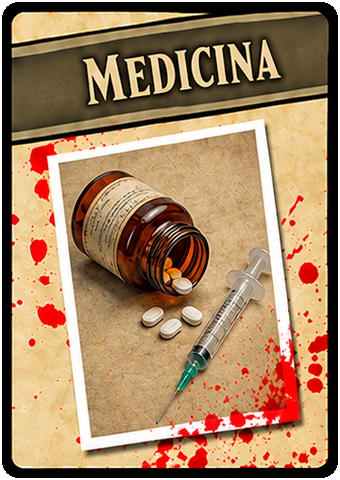
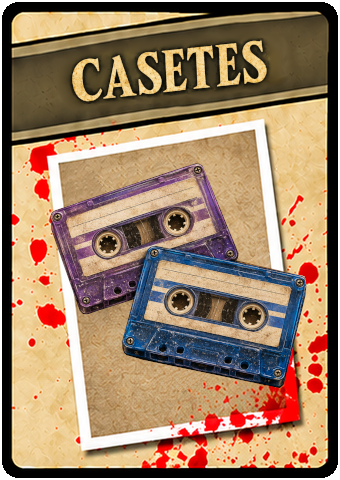
Update Admin cassette card image to card-obj-9.png

Changed region(s): [[0.1471, 0.3438, 0.9118, 0.875], [0.1765, 0.0625, 0.8529, 0.25]]

diff --git a/src/js/main.js b/src/js/main.js
@@ -352,9 +352,9 @@ class ScapeRoomApp {
       scannerSlide.innerHTML = `
         <div class="flip-card game-card-flip is-admin-card" id="scanner-flip-card">
           <div class="flip-card-inner">
-            <!-- Cara Frontal de la Tarjeta (Imagen de Cámara con Borde Azul) -->
+            <!-- Cara Frontal de la Tarjeta (Imagen de Casete) -->
             <div class="flip-card-front">
-              <img src="src/assets/images/objetos/card-scanner-camera.png" alt="Grabación de las Últimas Palabras" class="char-card-img" />
+              <img src="src/assets/images/objetos/card-obj-9.png" alt="Grabación de las Últimas Palabras" class="char-card-img" />
             </div>
 
             <!-- Cara Trasera: Reproductor de Cassette con Audio -->
